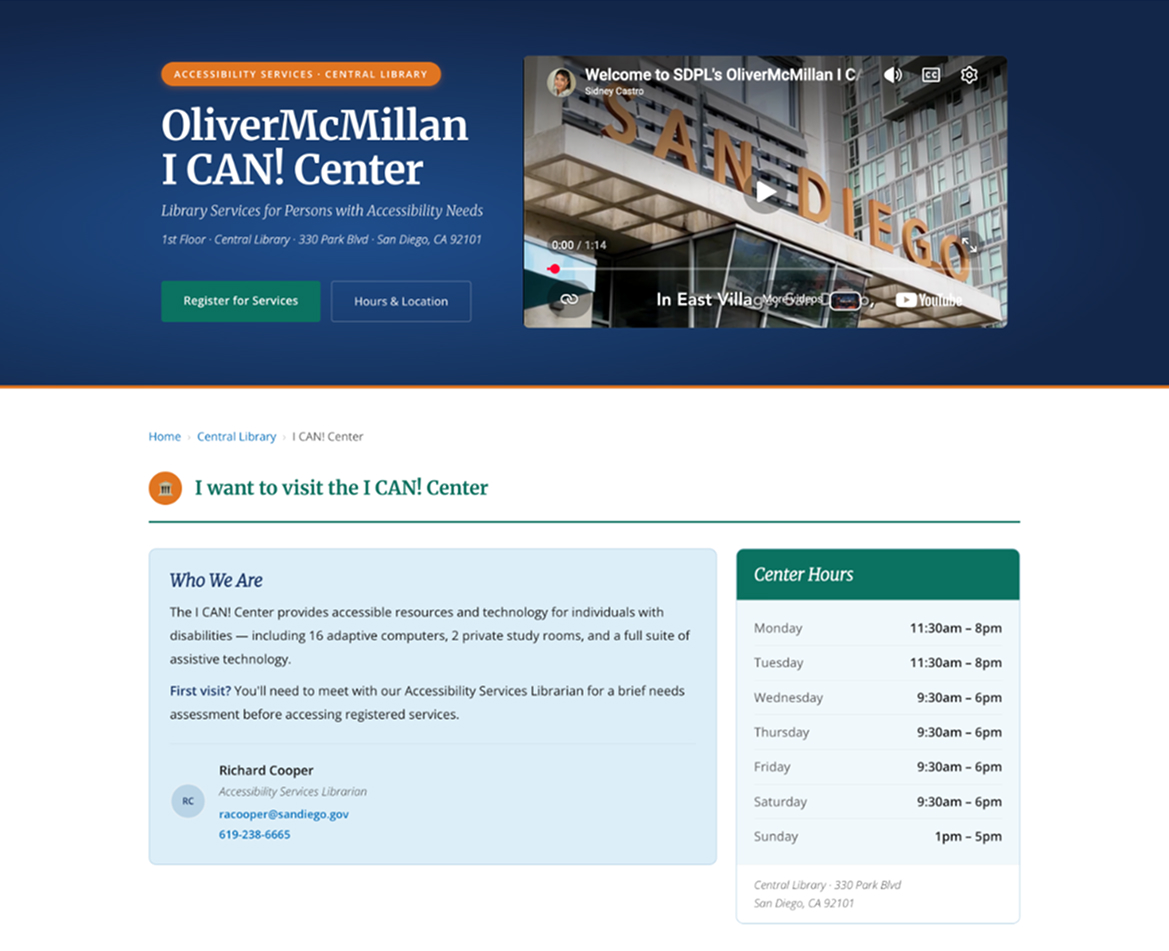
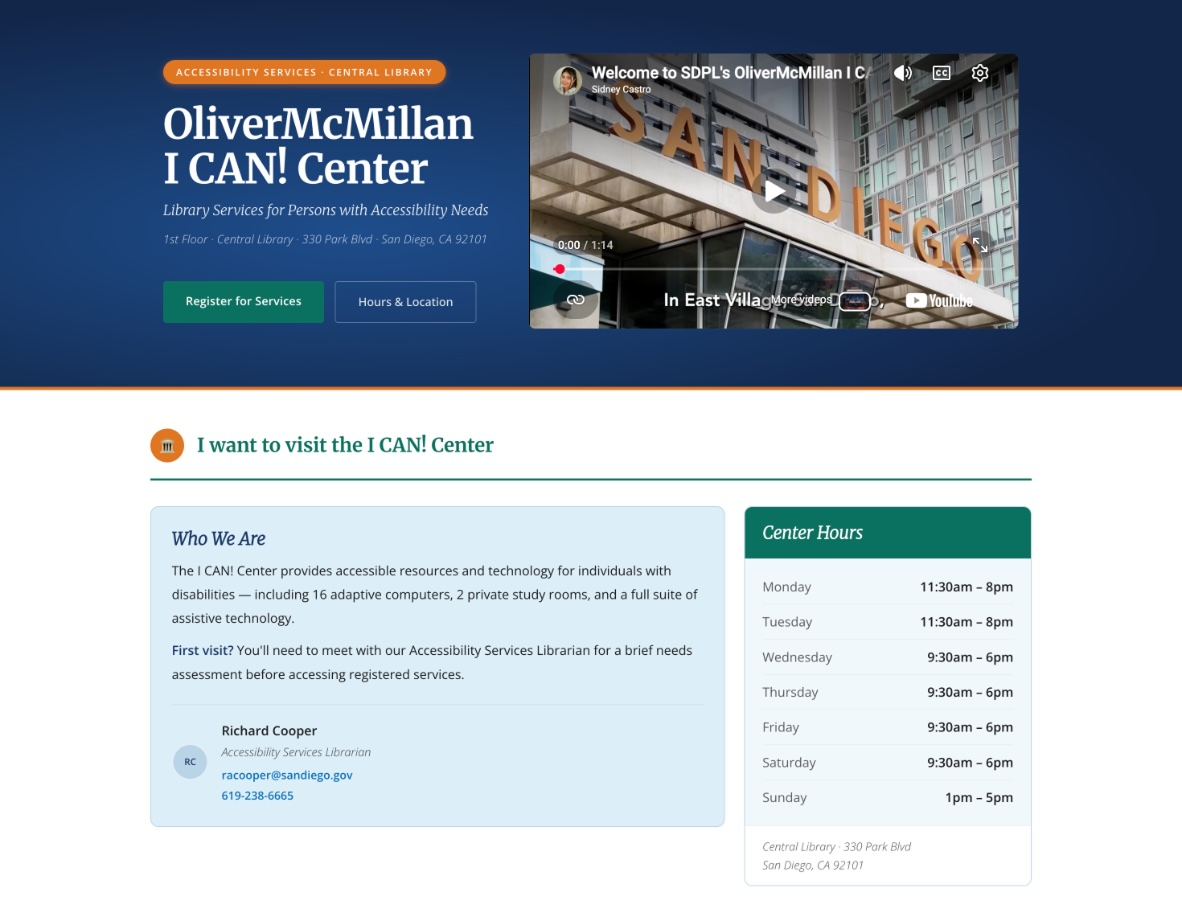
this is a test push

diff --git a/index.html b/index.html
@@ -44,38 +44,56 @@
         <span class="label">San Diego Public Library · 2024–2025</span>
         <h2>I CAN! Accessibility Center</h2>
         <p class="section-intro">One dense page, no clear structure. I proposed the redesign and built it.</p>
-      <div class="sdpl-pipeline">
-  <div>
-    <span class="label">Before</span>
-    <div class="ph r-4-3">
-      <img src="images/sdpl/sdpl_1.jpg" alt="Original I CAN! Center — dense, text-heavy, no clear structure" />
-    </div>
-    <p class="caption">One page with no structure"</p>
-  </div>
-  <div>
-    <span class="label">After</span>
-    <div class="ph r-4-3">
-      <img src="images/sdpl/sdpl_2.jpg" alt="Redesigned I CAN! Accessibility Center — task-based, multi-section" />
-    </div>
-    <p class="caption">Structured, accessible, easy to navigate</p>
-  </div>
-</div>
+        <div class="sdpl-pipeline">
+          <div>
+            <span class="label">Before</span>
+            <div class="ph r-4-3">
+              <img src="images/sdpl/sdpl_1.jpg" alt="Original I CAN! Center — dense, text-heavy, no clear structure" />
+            </div>
+            <p class="caption">One page with no structure</p>
+          </div>
+          <div>
+            <span class="label">After</span>
+            <div class="ph r-4-3">
+              <img src="images/sdpl/sdpl_2.jpg"
+                alt="Redesigned I CAN! Accessibility Center — task-based, multi-section" />
+            </div>
+            <p class="caption">Structured, accessible, easy to navigate</p>
+          </div>
+        </div>
 
         <!-- <span class="label sdpl-components-label">Component detail</span> -->
-        <div class="g2 sdpl-components" style="grid-template-columns: 1.15fr 1.15fr; align-items: end;">
+        <div class="g2 sdpl-components" style="grid-template-columns: 1fr 1.15fr;">
           <div>
-            <div class="ph r-4-1" style="background: white;">
-              <img src="images/sdpl/sdpl_homebound.jpg" alt="Upcoming events section"
+            <div class="ph r-4-3" style="background: white;">
+              <img src="images/sdpl/sdpl_homebound.png" alt="Homebound services section"
                 style="object-fit: contain; object-position: left top;" />
             </div>
             <p class="caption">Homebound delivery, Library-by-Mail, accessible PDF forms</p>
           </div>
           <div>
-            <div class="ph r-4-1" style="background: white;">
-              <img src="images/sdpl/sdpl_adaptive.jpg" alt="Adaptive technology section"
+            <div class="ph r-4-3" style="background: white;">
+              <img src="images/sdpl/sdpl_adaptive.png" alt="Adaptive technology section"
                 style="object-fit: contain; object-position: left top;" />
             </div>
             <p class="caption">Six assistive tools, each described clearly</p>
+          </div>
+        </div>
+
+        <div class="g2 sdpl-components" style="grid-template-columns: 1fr 1.15fr; margin-top: 1.35rem;">
+          <div>
+            <div class="ph r-4-3">
+              <iframe src="https://www.youtube.com/embed/2dtEKn92qyI" title="I CAN! Center promotional video"
+                style="width: 100%; height: 100%; border: none;" allowfullscreen></iframe>
+            </div>
+            <p class="caption">Promotional video produced for the redesigned page</p>
+          </div>
+          <div>
+            <div class="ph r-4-3">
+              <img src="images/sdpl/sdpl_space.jpg" alt="I CAN! Center space"
+                style="object-fit: cover; object-position: top;" />
+            </div>
+            <p class="caption">The physical space — computer workstations and study rooms</p>
           </div>
         </div>
       </div>
@@ -86,57 +104,58 @@
       <div class="section-card">
         <span class="label">eChalk — Web Producer · 2020–2021</span>
         <h2>40+ NYC school district sites</h2>
-        <p class="section-intro">Web producer for 40+ NYC school districts on the eChalk CMS, working directly with administrators on each site.</p>
+        <p class="section-intro">Web producer for 40+ NYC school districts on the eChalk CMS, working directly with
+          administrators on each site.</p>
 
-    <div class="echalk-featured g2-1">
-  <a href="https://www.echalk.com/nestm" target="_blank" class="site-card">
-    <div class="ph r-16-9">
-      <img src="images/echalk/echalk_nestm_home.jpg" alt="NEST+m school website homepage" />
-    </div>
-  </a>
-  <div class="echalk-details">
-    <a href="https://www.echalk.com/bronx-design-and-construction-academy" target="_blank" class="site-card">
-      <div class="ph r-16-9">
-        <img src="images/echalk/echalk_bronx_home.jpg" alt="Bronx Design and Construction Academy" />
-      </div>
-    </a>
-    <a href="https://www.echalk.com/magnet-school-of-steam-studies" target="_blank" class="site-card">
-      <div class="ph r-16-9">
-        <img src="images/echalk/echalk_magnet.jpg" alt="P.S. 98M Magnet School of STEAM Studies" />
-      </div>
-    </a>
-  </div>
-</div>
+        <div class="echalk-featured g2-1">
+          <a href="https://www.echalk.com/nestm" target="_blank" class="site-card">
+            <div class="ph r-16-9">
+              <img src="images/echalk/echalk_nestm_home.jpg" alt="NEST+m school website homepage" />
+            </div>
+          </a>
+          <div class="echalk-details">
+            <a href="https://www.echalk.com/bronx-design-and-construction-academy" target="_blank" class="site-card">
+              <div class="ph r-16-9">
+                <img src="images/echalk/echalk_bronx_home.jpg" alt="Bronx Design and Construction Academy" />
+              </div>
+            </a>
+            <a href="https://www.echalk.com/magnet-school-of-steam-studies" target="_blank" class="site-card">
+              <div class="ph r-16-9">
+                <img src="images/echalk/echalk_magnet.jpg" alt="P.S. 98M Magnet School of STEAM Studies" />
+              </div>
+            </a>
+          </div>
+        </div>
 
-       <div class="supporting-work">
-  <span class="label">Example page types</span>
-  <div class="g4">
-    <a href="https://www.echalk.com/wagner-middle-school" target="_blank" class="site-card">
-      <div class="ph r-3-2">
-        <img src="images/echalk/echalk_robert_resources.jpg" alt="Wagner Middle School" />
-      </div>
-      <p class="site-name">Wagner M.S. — student resources</p>
-    </a>
-    <a href="https://www.echalk.com/the-bensonhurst-school" target="_blank" class="site-card">
-      <div class="ph r-3-2">
-        <img src="images/echalk/echalk_benson_staff.jpg" alt="P.S. 128K The Bensonhurst School" />
-      </div>
-      <p class="site-name">P.S. 128K — staff directory</p>
-    </a>
-    <a href="https://www.echalk.com/linden-tree-elementary" target="_blank" class="site-card">
-      <div class="ph r-3-2">
-        <img src="images/echalk/echalk_linden_values.jpg" alt="Linden Tree Elementary" />
-      </div>
-      <p class="site-name">Linden Tree — about page</p>
-    </a>
-    <a href="https://www.echalk.com/nyack-public-schools" target="_blank" class="site-card">
-      <div class="ph r-3-2">
-        <img src="images/echalk/echalk_nyack_directory.jpg" alt="Nyack Public Schools" />
-      </div>
-      <p class="site-name">Nyack — school directory</p>
-    </a>
-  </div>
-</div>
+        <div class="supporting-work">
+          <span class="label">Example page types</span>
+          <div class="g4">
+            <a href="https://www.echalk.com/wagner-middle-school" target="_blank" class="site-card">
+              <div class="ph r-3-2">
+                <img src="images/echalk/echalk_robert_resources.jpg" alt="Wagner Middle School" />
+              </div>
+              <p class="site-name">Wagner M.S. — student resources</p>
+            </a>
+            <a href="https://www.echalk.com/the-bensonhurst-school" target="_blank" class="site-card">
+              <div class="ph r-3-2">
+                <img src="images/echalk/echalk_benson_staff.jpg" alt="P.S. 128K The Bensonhurst School" />
+              </div>
+              <p class="site-name">P.S. 128K — staff directory</p>
+            </a>
+            <a href="https://www.echalk.com/linden-tree-elementary" target="_blank" class="site-card">
+              <div class="ph r-3-2">
+                <img src="images/echalk/echalk_linden_values.jpg" alt="Linden Tree Elementary" />
+              </div>
+              <p class="site-name">Linden Tree — about page</p>
+            </a>
+            <a href="https://www.echalk.com/nyack-public-schools" target="_blank" class="site-card">
+              <div class="ph r-3-2">
+                <img src="images/echalk/echalk_nyack_directory.jpg" alt="Nyack Public Schools" />
+              </div>
+              <p class="site-name">Nyack — school directory</p>
+            </a>
+          </div>
+        </div>
       </div>
     </section>
 
@@ -145,7 +164,8 @@
       <div class="section-card">
         <span class="label">Edlio — Production Coder · 2021–2023</span>
         <h2>Built from scratch, 2–3 sites per week</h2>
-        <p class="section-intro">HTML, CSS/SASS, and JavaScript — built from design files and shipped WCAG 2.1 AA compliant.</p>
+        <p class="section-intro">HTML, CSS/SASS, and JavaScript — built from design files and shipped WCAG 2.1 AA
+          compliant.</p>
 
         <!-- COMAL -->
         <article class="project-card">
@@ -244,12 +264,12 @@
         target="_blank">LinkedIn</a></p>
   </footer> -->
   <footer>
-  <p>Sidney Castro</p>
-  <div class="footer-links">
-    <a href="https://www.linkedin.com/in/sidneycastro" target="_blank">LinkedIn</a>
-    <a href="mailto:sidneycastro96@gmail.com">Email</a>
-  </div>
-</footer>
+    <p>Sidney Castro</p>
+    <div class="footer-links">
+      <a href="https://www.linkedin.com/in/sidneycastro" target="_blank">LinkedIn</a>
+      <a href="mailto:sidneycastro96@gmail.com">Email</a>
+    </div>
+  </footer>
 
   </div>
 </body>

diff --git a/assets/css/style.css b/assets/css/style.css
@@ -121,19 +121,6 @@ nav a:hover {
 }
 
 .btn {
-  /* display: inline-block;
-  font-family: var(--sans);
-  font-size: 0.68rem;
-  font-weight: 500;
-  letter-spacing: 0.16em;
-  text-transform: uppercase;
-  border: 0.5px solid var(--text);
-  padding: 0.75rem 2rem;
-  border-radius: 999px;
-  text-decoration: none;
-  color: var(--text);
-  transition: background 0.2s, color 0.2s; */
-
   display: inline-block;
   font-family: var(--sans);
   font-size: 0.75rem;
@@ -270,7 +257,7 @@ h3 {
 .g2 {
   display: grid;
   grid-template-columns: 1fr 1fr;
-  gap: 1.35rem;
+  gap: 2rem;
 }
 
 .g3 {
@@ -288,7 +275,7 @@ h3 {
 .g2-1 {
   display: grid;
   grid-template-columns: 2fr 1fr;
-  gap: 1.35rem;
+  gap: 2.5rem;
 }
 
 /* ── BULLETS ──────────────────────────────── */
@@ -330,8 +317,8 @@ h3 {
 /* ── SDPL ─────────────────────────────────── */
 .sdpl-pipeline {
   display: grid;
-  grid-template-columns: 1fr 2fr;
-  gap: 1.35rem;
+  grid-template-columns: 1fr 1.5fr;
+  gap: 2.5rem;
   align-items: start;
   margin-bottom: var(--space-5);
 }
@@ -387,8 +374,8 @@ h3 {
 }
 
 .site-link {
-    font-size: 0.88rem;
-  color: var(--muted);
+  font-size: 0.88rem;
+  color: #3a5a6a;
   text-decoration: none;
   display: inline-block;
   margin-bottom: var(--space-3);
